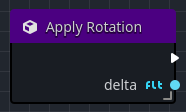
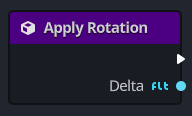
Update Step-by-Step guide based on 2.1.stable

diff --git a/docs/getting-started/step-by-step/index.md b/docs/getting-started/step-by-step/index.md
@@ -74,7 +74,7 @@ Click the **Create** button to create the script.
 
 <Figure image="/img/step-by-step/create-orchestration-dialog.png" caption="Attach node script dialog"></Figure>
 
-The Orchestrator **<EditorIcon name="ClassList"/> EventGraph** workspace should appear with your `sprite_2d.os` orchestration open.
+The Orchestrator **<EditorIcon name="ClassList"/> EventGraph** workspace should appear with your `sprite_2d.torch` orchestration open.
 
 <Figure image="/img/step-by-step/create-orchestration-editor.png" caption="Editor window"></Figure>
 
@@ -92,7 +92,7 @@ Let's make it print the text "Hello, world!" to the output bottom panel to get s
 Lastly, we need to add a Godot event callback so that our **Print String** node outputs the value.
 
 1. Press the <EditorIcon name="Override"/> button located at the top right of the **Functions** panel.
-2. Search or the `Call Init` action.
+2. Search for the `Init` action, found in the **Methods > Objects** category.
 3. To add the node, either press the **Add** button or simply hit **Enter**.
 
 With the two nodes in the **Graph**, using your mouse:
@@ -103,7 +103,7 @@ With the two nodes in the **Graph**, using your mouse:
 If done successfully, the two nodes should be connected.
 
 :::note
-The **Init Event** is a special callback that represents the `_init()` function in GDScript, which acts like a constructor.
+The **Init** event is a special callback that represents the `_init()` function in GDScript, which acts like a constructor.
 The Godot Engine calls this `_init()` on every object or node when it gets created, as long as this function is defined.
 :::
 
@@ -156,7 +156,7 @@ Angles in Godot work in radians by default, but you have built-in functions avai
 
 To move our icon, we need to update its position and rotation every frame in the game loop.
 
-We can use the **Process Event**, a Godot virtual override function, to do this.
+We can use the **Process** event, a Godot virtual override function, to do this.
 If your orchestration extends a class that extends the `Node` class, like `Sprite2D`, this function will be called every frame and provide an argument called `delta`, which is the elapsed time since the last frame in `seconds`.
 
 :::important
@@ -168,10 +168,10 @@ Most games aim for 60 FPS, although you might find values lower or higher.
 We are going to add the **Process Event** node much like we did the **Init Event** node.
 
 1. Press the <EditorIcon name="Override"/> button on the top-right of the **Functions** panel.
-2. In the **All Actions** dialog, locate the `Call Process Event` node.
+2. In the **All Actions** dialog, locate the `Process` event, in the **Methods > Node** category.
 3. To add the node, either press **Add** or simply hit **Enter**.
 
-With the **Process Event** node on the graph, we need to connect logic to this node to perform this computation, but visually:
+With the **Process** event node on the graph, we need to connect logic to this node to perform this computation, but visually:
 
 ```python
 rotation += angular_speed * delta
@@ -191,7 +191,7 @@ To do this visually, we need to add several more nodes to our graph:
 6. Select the `Set Rotation` choice and either press **Add** or simply hit **Enter**.
 7. Right-click the graph area once more to open the **All Actions** dialog.
 8. Search for `Multiply`.
-9. Select the "Multiply (Float)" choice that is under the **Float** category.
+9. Select the `Float Multiply Float` choice that is under the **Types > Float > Operators** category.
 10. Either press **Add** or simply hit **Enter**.
 
 Finally, match all the nodes as shown here.
@@ -206,7 +206,7 @@ Run the scene in the editor to see the icon turn in-place.
 #### Apply movement
 
 Let's now make the node move.
-In order to do this, we need to add one additional step inside the **Process Event** node logic.
+In order to do this, we need to add one additional step inside the **Process** event node logic.
 
 ```python
 var velocity = Vector2.UP.rotated(rotation) * speed
@@ -224,12 +224,12 @@ To set this up visually, we need to:
 1. Right-click the graph to open the **All Actions** dialog.
 2. Search for `Type Constant`
 3. Select the **Type Constant** node and set the type as `Vector2` and the constant as `UP` in the **Inspector**.
-4. Right-click the graph to open the *All Actions** dialog.
+4. Right-click the graph to open the **All Actions** dialog.
 5. Search for `Rotated`, selection the choice under the **Vector2** category.
 6. Next add three math operator nodes
    * Multiply `Vector2` by `Integer`.
    * Multiply `Vector2` by `Float`.
-   * Multiply `Vector2` by `Vector2`.
+   * Addition `Vector2` by `Vector2`.
 7. Finally add two function call nodes
    * Search for `Get Position`
    * Search for `Set Position`
@@ -249,7 +249,7 @@ In a future tutorial, you will learn another approach to moving and detecing col
 
 ### Complete script
 
-Here is what the complete `sprite_2d.os` orchestration script looks like for reference.
+Here is what the complete `sprite_2d.torch` orchestration script looks like for reference.
 
 <Figure image="/img/step-by-step/apply-movement.png" caption="Apply movement based on angular_speed, speed, and delta time"></Figure>
 
@@ -268,21 +268,21 @@ To create the user-defined function:
 
 1. Press the <EditorIcon name="Add"/> button on the top-right of the **Functions** panel in the **Component** view.
 2. When prompted for a function name, enter `apply_rotation` and press **Enter**.
-3. In the **Inspector** view, adjust the function properties by setting the following properties:
-   * Set the `Argument Count` to a value of `1`.
-   * Adjust the **new** argument's type as `Float` and the name as `delta`.
+3. In the **Inspector** view, click the **Add Inputs** button to add a new argument to the function.
+4. Set the **name** of the argument from **NewParam** to `delta`.
+5. Set the argument's type by clicking the **Any** button and selecting `Float`.
 
 The **Function Entry** node should now look like this in the graph:
 
 <Figure image="/img/step-by-step/apply-rotation-function-entry-node.png" caption="Apply rotation function"></Figure>
 
-You will have noticed that a new tab has been created at the top of the graph workspace called `apply_rotation()`.
-One of the benefits with Orchestrator is that all user-defined functions are organized into their own graph.
-This helps to declutter large graphs, and serves as a really neat way to organize your code.s
+You will have noticed that a new tab has been created at the top of the graph workspace called `apply_rotation`.
+One of the benefits with Orchestrator is that all user-defined functions are organized in their own graph.
+This helps to declutter large graphs, and serves as a really neat way to organize your code.
 
 Now, you may wonder how do we get the nodes we created in the **EventGraph** into this user-defined graph.
 Orchestrator supports bulk operations, so we're going to use **<EditorIcon name="ActionCut"/>Cut** and **<EditorIcon name="ActionPaste"/>Paste** to move that logic.
-So at the top of the graph workspace, click the **EventGraph** tab to go back to the main **Graph**.
+So at the top of the graph workspace, click the **EventGraph** tab to go back to the main graph.
 
 Left-click anywhere on the graph canvas and select the nodes that are specific to the rotation logic.
 The following shows the nodes you should be selecting in case you may have forgotten, they're highlighted with a **yellow** border:
@@ -296,35 +296,32 @@ You can also hold the `Ctrl` key and left click each node separately to select m
 Now to move these nodes to the user-defined function, we're going to first **Copy** them rather than use **Cut**:
 
 1. Press the `Ctrl+C` shortcut to copy the selected nodes into the selection buffer.
-2. In the **Component** view, double-click the `apply_rotation` function or click the `apply_rotation()` tab.
+2. In the **Component** view, double-click the `apply_rotation` function or click the `apply_rotation` tab.
 3. In the `apply_rotation` graph, press `Ctrl+V` to paste the selected nodes onto the graph.
-
-:::note
-The nodes may have been pasted near the center of the graph.
-You can click the **<EditorIcon name="GridMinimap"/>Toggle the graph minimap** at the top of the graph to quickly find them.
-Simply drag the selected nodes or the **Function Entry** node together.
-:::
 
 The next step here is to wire up the **Function Entry** node and the nodes that you just added.
 
 1. Connect the `delta` output pin to the `A` input pin of the multiplication node.
-2. Connect the output execution pin from the **Function Entry** node to the input execution pin of the **Call Set Rotation** node.
+2. Connect the output execution pin from the **Function Entry** node to the input execution pin of the **Set Rotation** node.
 
-The user-defined function, `apply_rotation()` should look like this:
+The user-defined function, `apply_rotation`, should look like this:
 
 <Figure image="/img/step-by-step/apply-rotation-function-finished.png" caption="The apply_rotation(delta) function"></Figure>
 
 The last step is to replace the logic in the **EventGraph** with our new function, `apply_rotation`.
 Click on the **EventGraph** in the **Graphs** section of the **Component** view or select the **EventGraph** tab.
 
-1. Right select all the currently selected nodes.
-2. Press the `Del` key to remove the nodes from the graph.
-3. Drag the `apply_function` from the **Component** view onto the graph.
+1. Right-click one of the currently selected nodes.
+   :::note
+   If the nodes are not still selected, please reselect them using the procedure above.
+   :::
+2. With the nodes selected, right-click one of the selected nodes and select `Delete` from the context-menu.
+3. Drag the `apply_function` from the **Component** view onto the graph. Select `Add Call Function` from the context-menu. 
 4. Connect the output execution pin from **Process Event** node to the input execution pin of **Call Apply Rotation** node.
 5. Connect the output `delta` pin from the **Process Event** node to the input `delta` pin of **Call Apply Rotation** node.
-6. Connect the output execution pin from **Call Apply Rotation** to the **Call Rotated** node.
+6. Connect the output execution pin from **Apply Rotation** to the **Rotated** node.
 7. Open the **All Actions** dialog, search for `Get Rotation` and add it to the graph.
-8. Lastly connect the output in from **Call Get Rotation** node to the `angle` pin of the **Call Rotated** node.
+8. Lastly connect the output in from **Get Rotation** node to the `angle` pin of the **Rotated** node.
 
 Your **EventGraph** should now look like this:
 
@@ -336,9 +333,9 @@ Now that we have moved the logic for rotation to a user-defined function, the ne
 
 1. Press the <EditorIcon name="Add"/> button on the top-right of the **Functions** panel in the **Component** view.
 2. When prompted for a function name, enter `apply_movement` and press **Enter**.
-3. In the **Inspector** view, adjust the function properties by setting the following properties:
-   * Set the `Argument Count` to a value of `1`.
-   * Adjust the **new** argument's type as `Float` and the name as `delta`.
+3. In the **Inspector** view, click the **Add Inputs** button to add a new argument to the function.
+4. Set the **name** of the argument from **NewParam** to `delta`.
+5. Set the argument's type by clicking the **Any** button and selecting `Float`.
 
 The **Function Entry** node should look like this in the graph:
 
@@ -347,14 +344,14 @@ The **Function Entry** node should look like this in the graph:
 Now again, we're going to select and **Copy** the nodes from the **EventGraph** into our new `apply_movement` user-defined function.
 
 1. Navigate back to the **EventGraph**.
-2. Select **ALL** nodes except the **Process Event** and **Call Apply Rotation** nodes.
+2. Select **ALL** nodes except the **Process Event** and **Apply Rotation** nodes.
 3. Press `Ctrl+C` to copy the nodes into the buffer.
 4. Navigate back to the **Apply Movement** graph.
 5. Press `Ctrl+V` to paste the nodes onto the graph.
 
 With the nodes pasted, you need to wire up the **Function Entry** node with the other nodes.
 
-1. Connect the output execution pin from the **Function Entry** node to the input execution pin of the **Call Rotated** node.
+1. Connect the output execution pin from the **Function Entry** node to the input execution pin of the **Rotated** node.
 2. Connect the `delta` output pin from the **Function Entry** node to the `B` input pin that isn't connected.<br/>
 This will be the `B` input pin on the **Multiplication** node between a `Vector2` and a `Float`.
 
@@ -364,10 +361,10 @@ The user-defined function graph should look like this:
 
 The last step is to replace the selected nodes in the **EventGraph** with the call to the new user-defined function that handles applying movement, `apply_movement`.
 
-1. Delete all nodes in the **EventGraph** except the **Process Event** and **Call Apply Rotation** nodes.
-2. Drag the `apply_movement` function from the **Component** view onto the graph.
-3. Connect the **Call Apply Function** output execution pin to the **Call Apply Movement** input execution pin.
-4. Connect the **Process Event** `delta` output pin to the **Call Apply Movement** `delta` input pin.
+1. Delete all nodes in the **EventGraph** except the **Process Event** and **Apply Rotation** nodes.
+2. Drag the `apply_movement` function from the **Component** view onto the graph. Select **Add Call Function** from the context-menu.
+3. Connect the **Apply Function** output execution pin to the **Apply Movement** input execution pin.
+4. Connect the **Process Event** `delta` output pin to the **Apply Movement** `delta` input pin.
 
 The new refactored **EventGraph** should now look like this:
 
@@ -377,13 +374,13 @@ By refactoring the logic from the **EventGraph** into two distinct **Function** 
 
 :::tip
 Any user-defined function can be focused by double-clicking the **Call Function** node.
-For example, double-clicking the **Call Apply Rotation** node will open the `apply_rotation` function graph, and focus the function's **Function Entry** node.
+For example, double-clicking the **Apply Rotation** node will open the `apply_rotation` function graph, and focus the function's **Function Entry** node.
 :::  
 
 ## Listening for player input {#listening-for-player-input}
 
-Building upon the steps from [Creating your first orchestration](#creating-your-first-orchestration) and [Reactor and use functions](#refactor-and-use-functions), let's look at another important feature of any game: giving control to the player.
-To add this, we need to modify our `sprite_2d.os` orchestration.
+Building upon the steps from [Creating your first orchestration](#creating-your-first-orchestration) and [Refactor and use functions](#refactor-and-use-functions), let's look at another important feature of any game: giving control to the player.
+To add this, we need to modify our `sprite_2d.torch` orchestration.
 
 <Figure image="/img/step-by-step/scripting_first_script_moving_with_input.webp" caption="Moving Godot with player input"></Figure>
 
@@ -426,12 +423,8 @@ func calculate_direction():
 Since this function will return an `Integer` value, we need to add a **Function Result** node to the graph.
 
 1. Click on the **Function Entry** node if it isn't already selected.
-2. In the **Inspector** view, enable the `Has Return Value` property.<br/>
-   If this is not enabled, you cannot add a **Function Result** node to the graph.
-3. In the **Inspector** view, set the `Return Type` to `Integer`.
-4. Now, right-click on the graph to open the **All Actions** dialog.
-5. Search for `Add Return`
-6. Select the `Add Return Node` and press the **Add** button or simply press **Enter**.
+2. In the **Inspector** view, click **Add Outputs**.
+3. Click on the button with `Any` and search for `Integer`, setting the type to integer.
 
 The `calculate_direction` graph should look like this:
 
@@ -484,7 +477,7 @@ For `direction`, leave its default value unchanged, as it will default to `0`.
 If you need a reminder of how to do that, see the [Add angular speed](#add-angular-speed) section.
 
 With the `direction` variable setup, drag the `direction` variable from the **Component** panel onto the graph **3** times.
-Each time, making sure to select that you want to create a **Get direction** node.
+Each time, making sure to select that you want to create a **Set direction** node.
 
 Now one of the cleanest ways to represent a sequence of operations, like checking two `if` (**Branch**) conditions followed by some logic that will run based on the prior stages is to use a **Sequence** node.
 In our case, we're going to create a **Sequence** node that will have **4** output execution pins, one to initialize our `direction` variable, two to handle the two `if` checks, and lastly one to handle the incrementing of the `rotation`.
@@ -492,7 +485,8 @@ In our case, we're going to create a **Sequence** node that will have **4** outp
 1. Right-click the graph and open the **All Actions** dialog.
 2. Search for `Sequence`.
 3. Select the `Sequence` option and press **Add** or simply press **Enter**.
-4. In the **Sequence** node, press the <EditorIcon name="ZoomMore"/> button so that there are **4** output execution pins.
+4. In the **Sequence** node, press the <EditorIcon name="ZoomMore"/> button so that there are **4** output execution pins.<br/>
+These pins will be labeled `Then 0`, `Then 1`, `Then 2`, and `Then 3`.
 5. Connect the `Then 0` output execution pin to one of the **Set direction** nodes.
 6. In that **Set direction** node, make sure that the `direction` value is `0` (the default).
 
@@ -511,33 +505,34 @@ Now, we need to repeat this process for the other `if` condition.
 3. Connect the **Branch** node's `True` output execution pin to the **Set direction** node that isn't connected.
 4. Set the `direction` input value to `1` on the **Set direction** node.
 
-With this, your graph should look similar to this:
+With this, the sequence part of the graph should look similar to this:
 
 <Figure image="/img/step-by-step/turning-input-left-right-step-1.png" caption="Initial setup for turning"></Figure>
 
 Now, you need to wire the **Function Entry** and **Function Result** nodes with this, returning the `direction`.
 
-1. Connect the **Function Entry** output execution pin to the input execution pin of the **Sequence** node.
+1. Connect the **Function Entry** output execution pin to the input execution pin of the **Sequence** node. This will break the existing connection between the **Function Entry** and **Function Return** nodes, and that's expected.
 2. Drag the `direction` variable from the **Component** view, and spawn a **Get direction** node.
 3. Connect the `Then 3` output pin from the **Sequence** node to the input execution pin of the **Function Result** node.
 4. Finally, connect the **Get direction** node's data output to the input `Return Value` pin of the **Function Result** node.
 
-The graph for `calculate_direction()` should look like this:
+The graph for `calculate_direction` should look like this:
 
 <Figure image="/img/step-by-step/calculate-direction-complete.png" caption="The calculate_direction() function"></Figure>
 
 #### Using the direction calculation
 
-The last step is to use the the `calculate_direction` function inside our `apply_rotation` function.
+The last step is to use the `calculate_direction` function inside our `apply_rotation` function.
 
-1. Navigate to the `apply_rotation` function.
-2. Drag the `calculate_direction` function onto the graph from the **Component** view.
+1. Navigate to the `apply_rotation` function, double-clicking it in the **Component** view.
+2. Drag the `calculate_direction` function onto the graph from the **Component** view.<br/>
+Be sure to select the **Add Call Function** option from the context-menu.
 3. Select the **Multiplication** node that multiplies two `Float` values and press `Ctrl+D` to duplicate.
-4. Connect the **Apply Rotation** entry node output pin to the input execution pin of the **Call Calculate Direction** node.
-5. Connect the `delta` output pin on **Apply Rotation** to the `B` input of the duplicated node.
-6. Connect the `Return value` output pin on the **Call Calculate Direction** to the `A` input of the duplicated node.
+4. Connect the **Apply Rotation** entry node output execution pin to the input execution pin of the **Calculate Direction** node.
+5. Connect the `delta` output pin on **Apply Rotation** to the `B` input of the duplicated **Multiply** node from step 3.
+6. Connect the `Return value` output pin on the **Calculate Direction** to the `A` input of the duplicated node.
 7. Connect the duplicated node's output pin to the unconnected **Multiplication** node `A` pin.
-8. Lastly connect the **Call Calculate Direction** output execution pin to the **Call Set Rotation** input execution pin.
+8. Lastly connect the **Calculate Direction** output execution pin to the **Set Rotation** input execution pin.
 
 The final graph should look like this:
 
@@ -582,11 +577,8 @@ In this function, we either want to return `Vector2.ZERO` if the player has not 
 The first step we need to is to add the **Function Return** node, returning a `Vector2` value.
 
 1. Select the **Function Entry** node.
-2. In the **Inspector** view, enable the `Has Return Value`.
-3. In the **Inspector** view, set the `Return Type` as `Vector2`.
-4. In the graph, right-click to open the **All Actions** dialog.
-5. Search for `Add Return`.
-6. Select the `Add Return Node` option and press the **Add** button or simply hit **Enter**.
+2. In the **Inspector** view, click the **Add Outputs** button to add the return node.
+3. In the **Inspector** view, set the return value's type to `Vector2` from `Any`.
 
 Now to simplify things, navigate back to the `apply_movement` graph and select these nodes.
 The nodes to select are highlighted with a **yellow** border:
@@ -621,9 +613,9 @@ With the `velocity` variable added, perform these steps:
 10. Select the **Input Action** node.
 10. In the **Inspector** view, change the `Action` property to be `ui_up`.
 11. Connect the **Input Action** output pin with the input `Condition` pin on the **Branch** node.
-12. Connect the `True` output pin from the **Branch** node to the input execution pin on the **Call Rotated** node.
+12. Connect the `True` output pin from the **Branch** node to the input execution pin on the **Rotated** node.
 13. Select the `velocity` variable in the **Component** panel and drag onto the graph, selecting **Set velocity**.
-14. Connect the output execution pin from **Call Rotated** to the input execution pin of **Set Velocity.
+14. Connect the output execution pin from **Rotated** to the input execution pin of **Set Velocity.
 15. Connect the output pin from the **Multiplication** (A*B) node to the input pin of **Set Velocity**.
 16. Drag the `velocity` variable from the **Component** panel and select **Get velocity**.
 17. Connect the `Then 2` output execution pin to the **Return Node** input execution pin.
@@ -640,10 +632,11 @@ Navigate back to the `apply_movement` function and perform these steps:
 
 1. Remove the node that you copied to the `calculate_velocity` function.<br/>In case you forgot, they're the ones shown here with a **yellow** border:
    <Figure image="/img/step-by-step/calculate-velocity-copy-nodes.png" caption="Nodes to delete"></Figure>
-2. Drag the `caculate_velocity` function from the **Component** view onto the graph.
-3. Connect the output execution pin from **Apply Movement** to the input pin on **Call Calculate Velocity** node.
-4. Connect the output execution pin from **Call Calculate Velocity** to the input execution pin on **Call Set Position** node.
-5. Finally, connect the `Return Value` output pin on **Call Calculate Velocity** node to the input `A` pin on the **Multiplication** node that's currently unconnected.
+2. Drag the `caculate_velocity` function from the **Component** view onto the graph.<br/>
+Again, select the **Add Call Function** option from the context-menu.
+3. Connect the output execution pin from **Apply Movement** to the input pin on **Calculate Velocity** node.
+4. Connect the output execution pin from **Calculate Velocity** to the input execution pin on **Set Position** node.
+5. Finally, connect the `Vector2` output pin on **Calculate Velocity** node to the input `A` pin on the **Multiplication** node that's currently unconnected.
 
 The new simplified `apply_movement` function should look like this:
 
@@ -667,6 +660,6 @@ You also inherit many functions, which we didn't use in this example.
 In an Orchestration, using variables is an excellent way to store and manage state.
 Additionally, user-defined functions are a great way to organize smaller pieces of code to reduce the complexity of large visual script graphs.
 
-And who would believe, in the end, all this was possible using three nodes in a graph:
+And who would have thought, visual scripting can be done without being spaghetti!
 
 <Figure image="/img/step-by-step/editor-finished.png" caption="Orchestrator, Visual Scripts aren't Spaghetti!!!!"></Figure>
